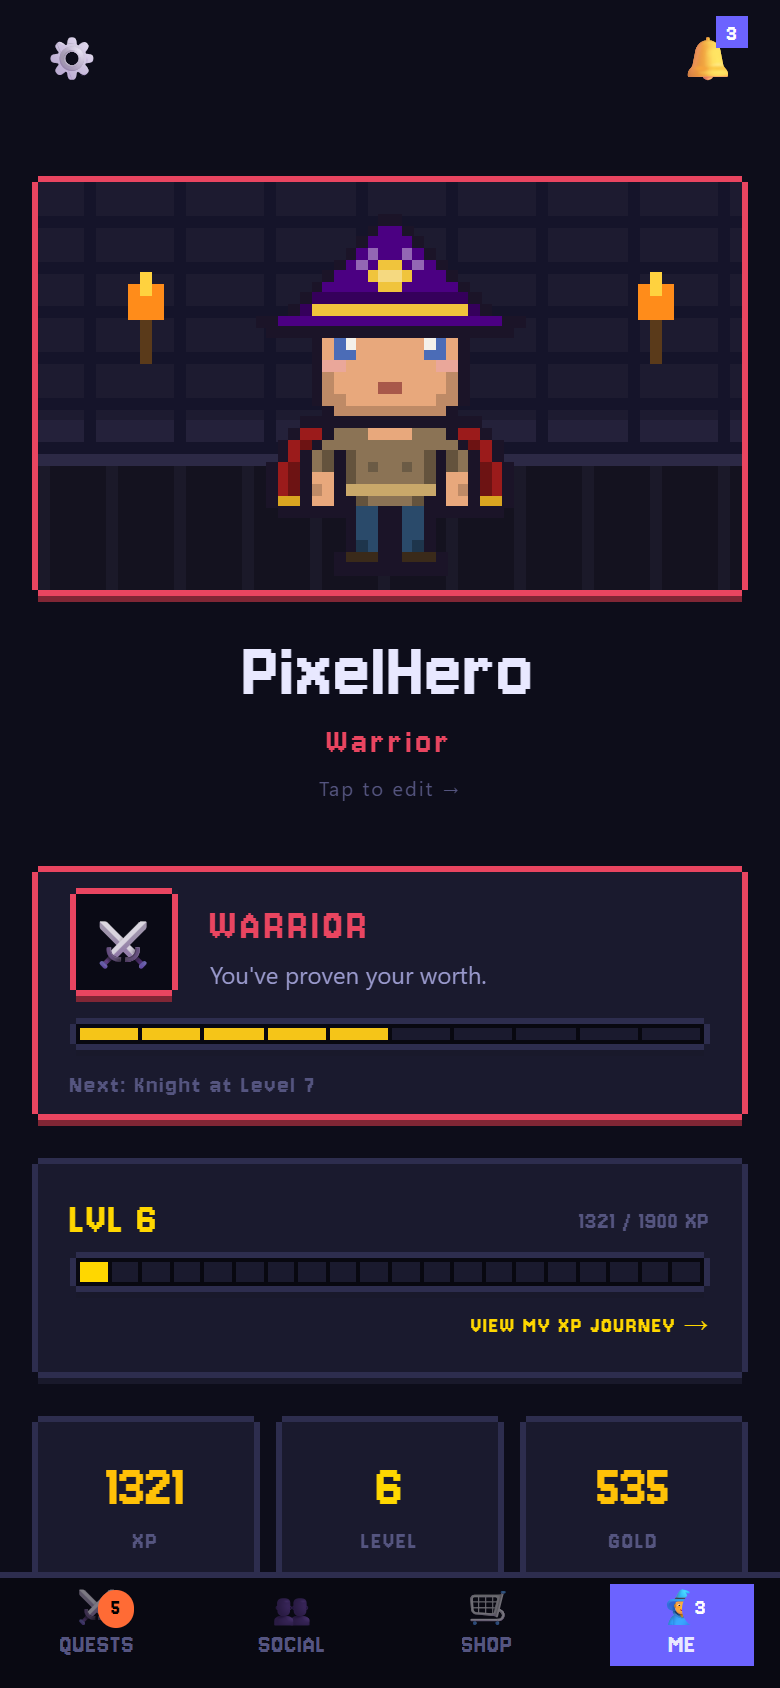
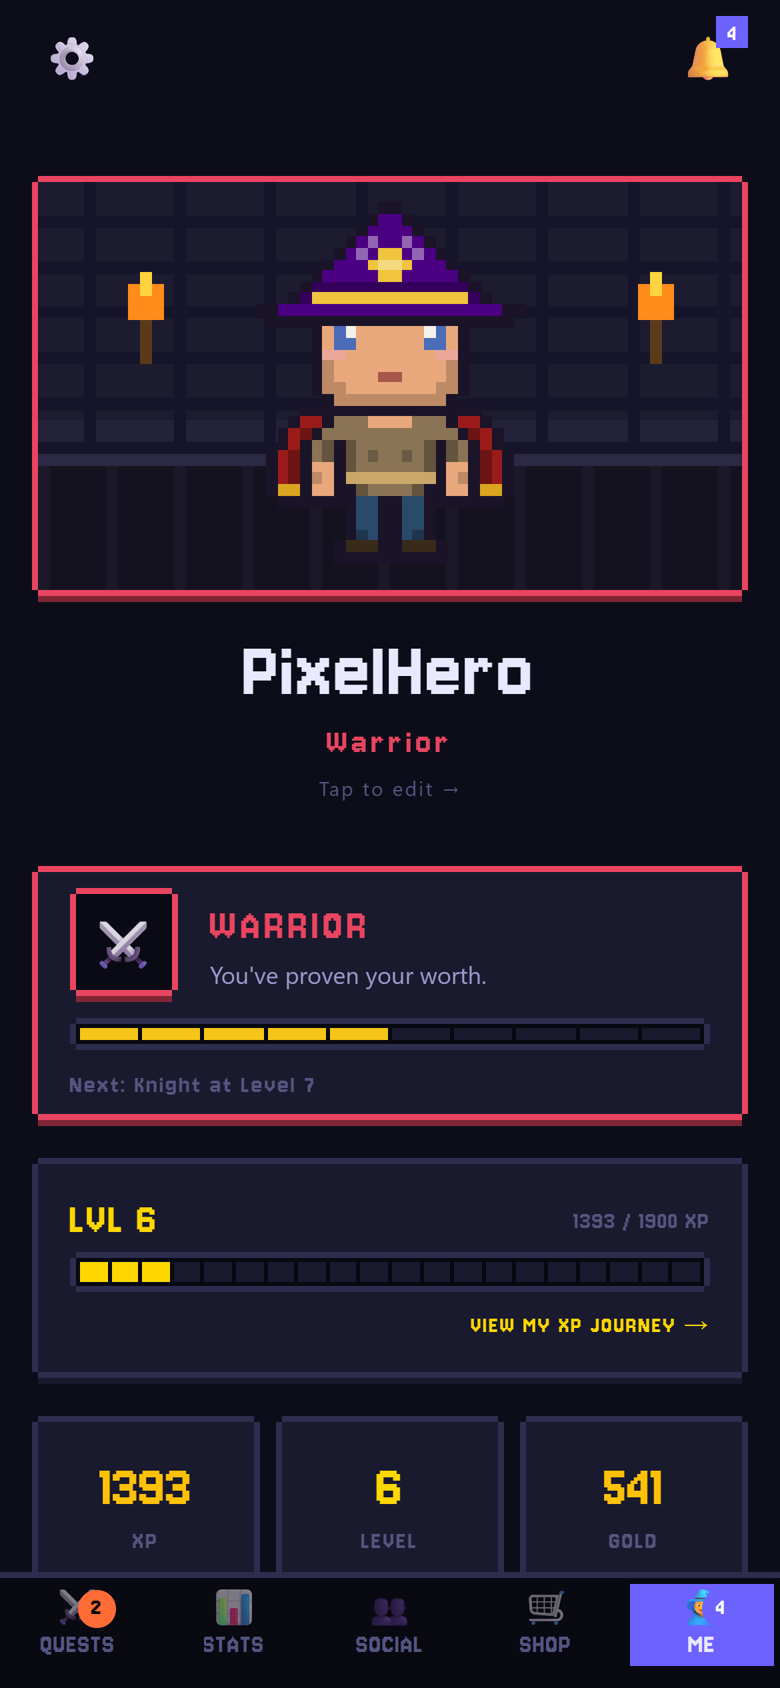
feat(marketing): store screenshots captured; site shows the current app
App captures for the App Store and Google Play screenshots (six screens,
English and French, 390x844 @3x, demo account), rendered by
marketing/render-store.js into 36 images (3 sizes x 6 screens x 2
languages, git-ignored exports). The sixth screen is now Stats (with
the new tab) instead of the XP journey.

The landing page and its social preview use the same, current screens
(5-tab bar, Stats).

diff --git a/scripts/site/build-landing.js b/scripts/site/build-landing.js
@@ -43,7 +43,7 @@ const T = {
       ['🤝', 'Co-op challenges', 'Team up with friends on a shared goal and earn bonus XP together.'],
     ],
     shotsTitle: 'A look <em>inside</em>',
-    shots: [['today', 'Your quests'], ['profile', 'Your hero'], ['arena', 'The arena'], ['journey', 'Your progress']],
+    shots: [['today', 'Your quests'], ['profile', 'Your hero'], ['arena', 'The arena'], ['stats', 'Your progress']],
     stepsTitle: 'How it <em>works</em>',
     steps: [
       ['Create your hero', 'Pick your look and your first quests in under a minute.'],
@@ -91,7 +91,7 @@ const T = {
       ['🤝', 'Défis coop', 'Fais équipe avec tes amis sur un objectif commun et gagnez de l\'XP bonus ensemble.'],
     ],
     shotsTitle: 'Un aperçu de <em>l\'app</em>',
-    shots: [['today', 'Tes quêtes'], ['profile', 'Ton héros'], ['arena', 'L\'arène'], ['journey', 'Ta progression']],
+    shots: [['today', 'Tes quêtes'], ['profile', 'Ton héros'], ['arena', 'L\'arène'], ['stats', 'Ta progression']],
     stepsTitle: 'Comment ça <em>marche</em>',
     steps: [
       ['Crée ton héros', 'Choisis ton apparence et tes premières quêtes en moins d\'une minute.'],

diff --git a/docs/fr/index.html b/docs/fr/index.html
@@ -57,7 +57,7 @@
     <figure><div class="phone"><img src="../assets/screens/today.png" alt="Tes quêtes" loading="lazy" width="390" height="844"></div><figcaption>Tes quêtes</figcaption></figure>
     <figure><div class="phone"><img src="../assets/screens/profile.png" alt="Ton héros" loading="lazy" width="390" height="844"></div><figcaption>Ton héros</figcaption></figure>
     <figure><div class="phone"><img src="../assets/screens/arena.png" alt="L'arène" loading="lazy" width="390" height="844"></div><figcaption>L'arène</figcaption></figure>
-    <figure><div class="phone"><img src="../assets/screens/journey.png" alt="Ta progression" loading="lazy" width="390" height="844"></div><figcaption>Ta progression</figcaption></figure>
+    <figure><div class="phone"><img src="../assets/screens/stats.png" alt="Ta progression" loading="lazy" width="390" height="844"></div><figcaption>Ta progression</figcaption></figure>
   </div>
 </div></section>
 

diff --git a/docs/index.html b/docs/index.html
@@ -57,7 +57,7 @@
     <figure><div class="phone"><img src="assets/screens/today.png" alt="Your quests" loading="lazy" width="390" height="844"></div><figcaption>Your quests</figcaption></figure>
     <figure><div class="phone"><img src="assets/screens/profile.png" alt="Your hero" loading="lazy" width="390" height="844"></div><figcaption>Your hero</figcaption></figure>
     <figure><div class="phone"><img src="assets/screens/arena.png" alt="The arena" loading="lazy" width="390" height="844"></div><figcaption>The arena</figcaption></figure>
-    <figure><div class="phone"><img src="assets/screens/journey.png" alt="Your progress" loading="lazy" width="390" height="844"></div><figcaption>Your progress</figcaption></figure>
+    <figure><div class="phone"><img src="assets/screens/stats.png" alt="Your progress" loading="lazy" width="390" height="844"></div><figcaption>Your progress</figcaption></figure>
   </div>
 </div></section>
 
